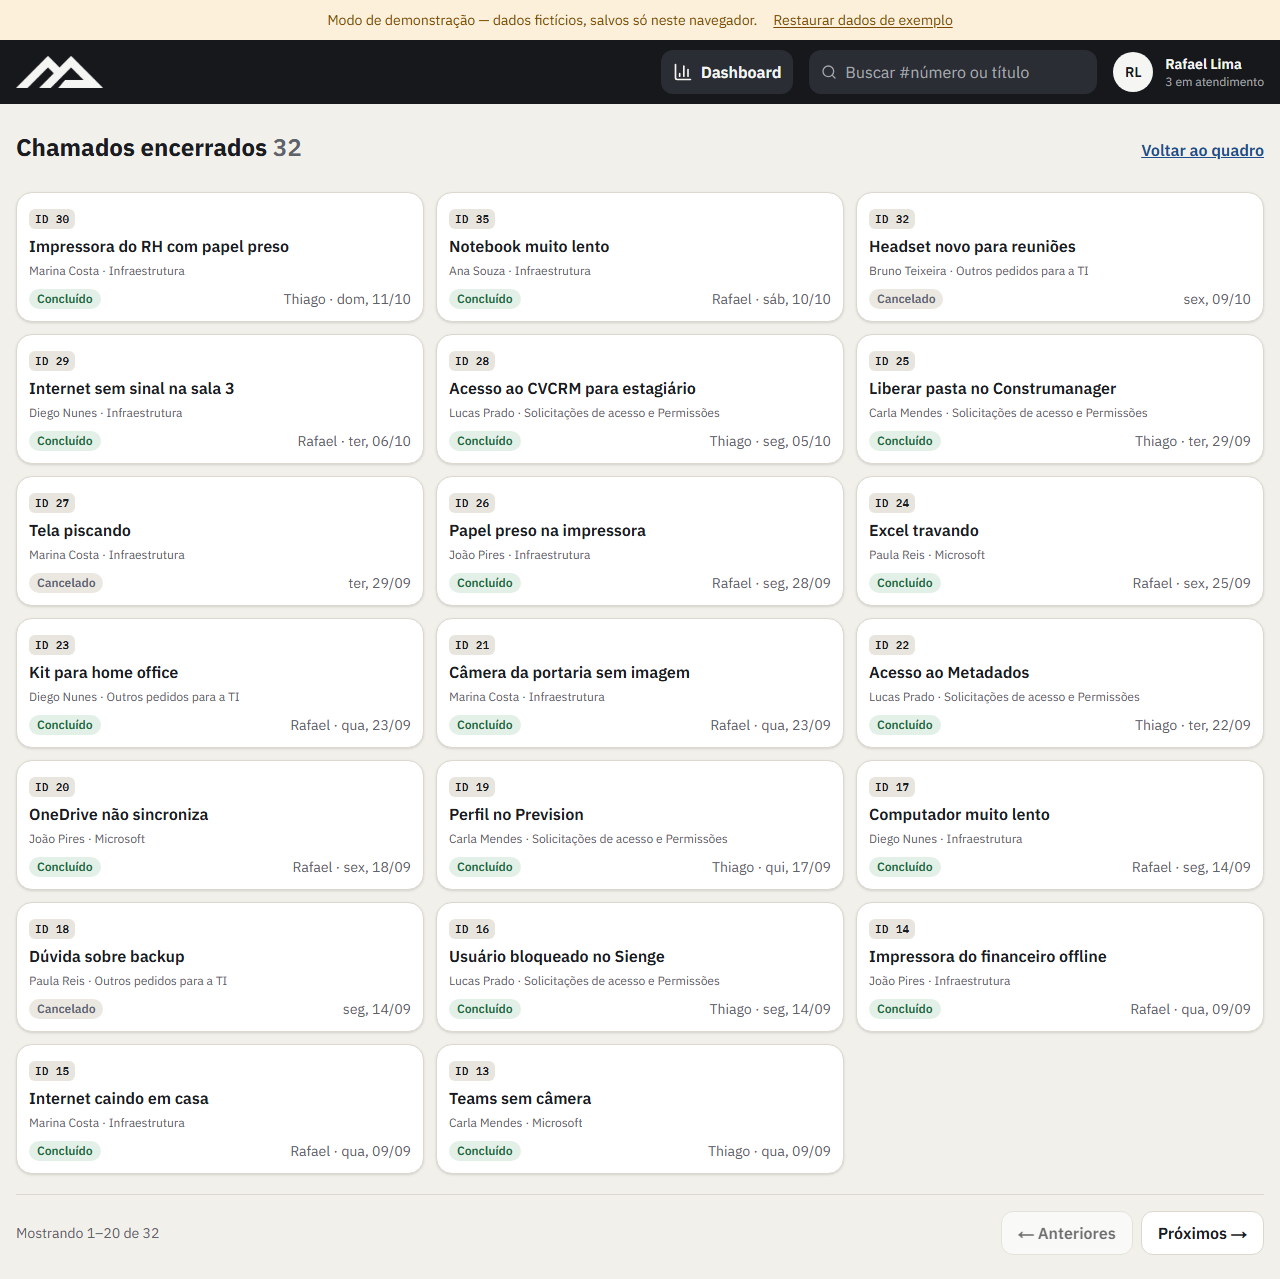
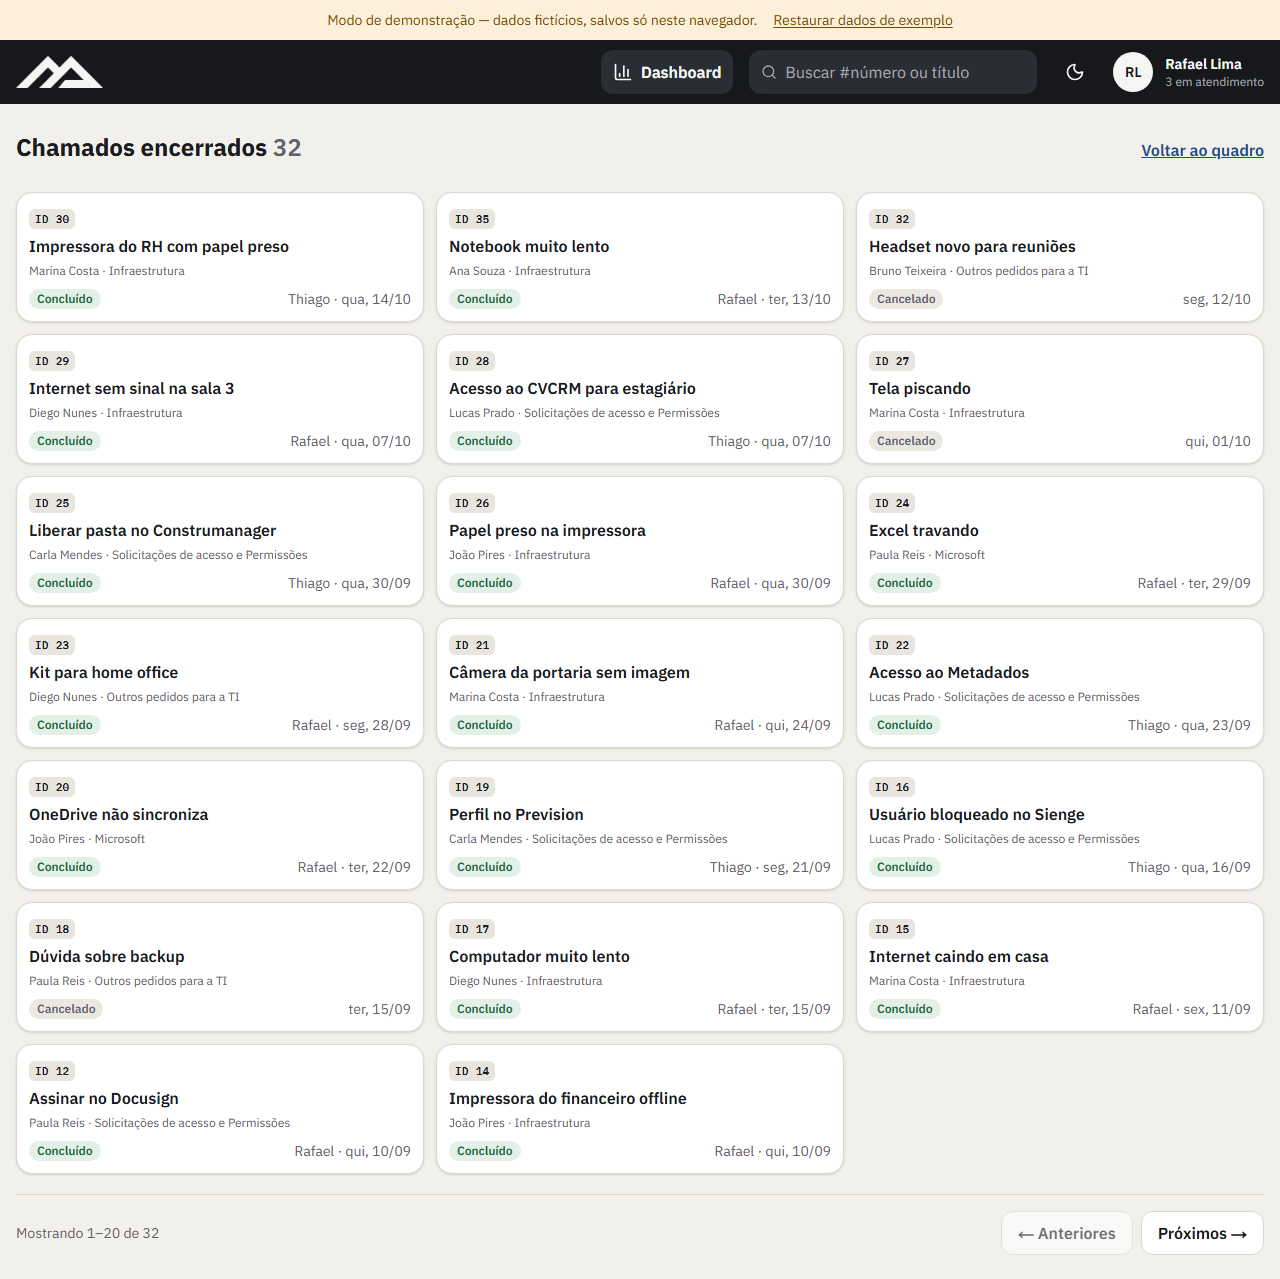
feat(chat): ✓ enviada e ✓✓ vista nas mensagens da TI
- migration 0026: a TI lê até quando o solicitante leu (chamado_leituras)
  e a tabela entra no Realtime; pgTAP 013
- contrato lidoPeloSolicitanteAte nas duas fontes; integração da camada real
- só a TI vê; o solicitante não vê se a TI leu
- prints claros atualizados (botão ☀/🌙 e ✓✓)

diff --git a/apps/web/components/chamado/Conversa.tsx b/apps/web/components/chamado/Conversa.tsx
@@ -5,6 +5,7 @@
 // anexos dentro do balão. Cores do mockup: as minhas em azul à direita, as dos outros em branco.
 // Notas internas não aparecem aqui: ficam no Relato técnico (components/tecnico/atendimento/RelatoTecnico).
 
+import { Check, CheckCheck } from "lucide-react";
 import type { Anexo } from "@/lib/dominio/tipos";
 import { AnexoMiniatura } from "./AnexoMiniatura";
 import type { ItemConversa } from "./linhaDoTempo";
@@ -39,6 +40,7 @@ export function Balao({
   inicioDeGrupo = true,
   anexos = [],
   esmaecido = false,
+  visto = null,
 }: {
   conteudo: string;
   minha: boolean;
@@ -50,6 +52,8 @@ export function Balao({
   inicioDeGrupo?: boolean;
   anexos?: Anexo[];
   esmaecido?: boolean;
+  /** ✓ enviada · ✓✓ vista pelo solicitante (só a TI vê). Nulo = sem marca. */
+  visto?: boolean | null;
 }) {
   const cor = sistema ? CORES.sistema : minha ? CORES.minha : CORES.outra;
   const lado = minha ? "self-end" : "self-start";
@@ -87,7 +91,20 @@ export function Balao({
         {conteudo ? (
           <p className="mr-auto min-w-0 break-words whitespace-pre-line">{conteudo}</p>
         ) : null}
-        <span className={`shrink-0 text-[11px] leading-5 ${cor.hora}`}>{hora}</span>
+        <span
+          className={`inline-flex shrink-0 items-center gap-1 text-[11px] leading-5 ${cor.hora}`}
+        >
+          {hora}
+          {visto === null ? null : visto ? (
+            <CheckCheck role="img" aria-label="Vista" className="size-4 text-sis-azul-claro">
+              <title>Vista pelo solicitante</title>
+            </CheckCheck>
+          ) : (
+            <Check role="img" aria-label="Enviada" className="size-4">
+              <title>Enviada (ainda não vista)</title>
+            </Check>
+          )}
+        </span>
       </div>
     </div>
   );
@@ -134,6 +151,7 @@ export function Conversa({ itens }: { itens: ItemConversa[] }) {
               hora={item.hora}
               inicioDeGrupo={item.inicioDeGrupo}
               anexos={item.anexos}
+              visto={item.visto}
             />
           </li>
         );

diff --git a/apps/web/components/chamado/linhaDoTempo.ts b/apps/web/components/chamado/linhaDoTempo.ts
@@ -34,6 +34,8 @@ export type ItemConversa =
       inicioDeGrupo: boolean;
       anexos: Anexo[];
       criadoEm: string;
+      /** Só para a TI, nas mensagens dela: o solicitante já leu (✓✓) ou ainda não (✓). Nulo = não mostra. */
+      visto: boolean | null;
     };
 
 interface Entrada {
@@ -44,6 +46,8 @@ interface Entrada {
   perfis: PerfilPublico[];
   euId: string;
   papel: Papel;
+  /** Até quando o solicitante leu (lidoPeloSolicitanteAte). Só a TI recebe; ativa o ✓/✓✓. */
+  lidoPeloSolicitanteAte?: string | null;
   agora?: Date;
 }
 
@@ -130,8 +134,14 @@ export function montarConversa({
   perfis,
   euId,
   papel,
+  lidoPeloSolicitanteAte = null,
   agora = new Date(),
 }: Entrada): ItemConversa[] {
+  // ✓/✓✓ só para a TI, nas mensagens que ela mesma mandou (pedido do dono, 2026-10-16).
+  const visto = (minha: boolean, criadoEm: string): boolean | null =>
+    papel === "ti" && minha
+      ? lidoPeloSolicitanteAte !== null && new Date(lidoPeloSolicitanteAte) >= new Date(criadoEm)
+      : null;
   const perfil = new Map(perfis.map((p) => [p.id, p]));
   const nome = (id: string | null | undefined) => (id ? (perfil.get(id)?.nome ?? null) : null);
 
@@ -157,6 +167,7 @@ export function montarConversa({
       inicioDeGrupo: true,
       anexos: anexos.filter((a) => a.mensagemId === null),
       criadoEm: chamado.criadoEm,
+      visto: visto(chamado.solicitanteId === euId, chamado.criadoEm),
     },
     ...mensagens
       .filter((m) => !m.interna)
@@ -172,6 +183,7 @@ export function montarConversa({
         inicioDeGrupo: true,
         anexos: anexos.filter((a) => a.mensagemId === m.id),
         criadoEm: m.criadoEm,
+        visto: visto(m.autorId === euId, m.criadoEm),
       })),
     ...historico.flatMap((h) => {
       const texto = textoEvento(h, nome, euId, papel);

diff --git a/apps/web/components/chamado/linhaDoTempo.test.ts b/apps/web/components/chamado/linhaDoTempo.test.ts
@@ -330,3 +330,24 @@ describe("prazo definido pela TI (ADR 0009)", () => {
     );
   });
 });
+
+describe("visto (✓/✓✓) — só a TI, nas mensagens dela", () => {
+  const base = { chamado, mensagens, historico, anexos: [], perfis, agora };
+  const daTi = (lido: string | null) =>
+    montarConversa({ ...base, euId: RAFAEL, papel: "ti", lidoPeloSolicitanteAte: lido }).find(
+      (i) => i.chave === "m1",
+    );
+
+  it("✓ enquanto o solicitante não leu; ✓✓ depois que leu", () => {
+    expect(daTi(null)).toMatchObject({ visto: false });
+    expect(daTi("2026-10-05T12:51:00Z")).toMatchObject({ visto: false });
+    expect(daTi("2026-10-05T12:52:00Z")).toMatchObject({ visto: true });
+  });
+
+  it("não marca as mensagens do solicitante nem aparece para o solicitante", () => {
+    const ti = montarConversa({ ...base, euId: RAFAEL, papel: "ti", lidoPeloSolicitanteAte: null });
+    expect(ti.find((i) => i.chave === "pedido")).toMatchObject({ visto: null });
+    const ana = montarConversa({ ...base, euId: ANA, papel: "solicitante" });
+    expect(ana.filter((i) => i.tipo === "mensagem").every((i) => i.visto === null)).toBe(true);
+  });
+});

diff --git a/apps/web/lib/dados/real/index.ts b/apps/web/lib/dados/real/index.ts
@@ -47,7 +47,7 @@ import {
 } from "./mapear";
 
 const ENCERRADOS = "(concluido,cancelado)";
-const TABELAS_AO_VIVO = ["chamados", "mensagens", "historico"] as const;
+const TABELAS_AO_VIVO = ["chamados", "mensagens", "historico", "chamado_leituras"] as const;
 
 /** Erro de leitura do Supabase → catálogo (42501 = sem permissão pelo RLS/grant). Nunca a mensagem crua. */
 function erroDeLeitura(erro: PostgrestError): ErroApp {
@@ -480,6 +480,19 @@ export function criarFonteReal(
 
     async marcarComoLido(chamadoId) {
       await api<void>(`/chamados/${chamadoId}/lido`, { metodo: "POST" });
+    },
+
+    async lidoPeloSolicitanteAte(chamadoId, solicitanteId) {
+      if (usuario.papel !== "ti") return null;
+      const linha = ler(
+        await supabase
+          .from("chamado_leituras")
+          .select("lido_ate")
+          .eq("chamado_id", chamadoId)
+          .eq("profile_id", solicitanteId)
+          .maybeSingle<{ lido_ate: string }>(),
+      );
+      return linha?.lido_ate ?? null;
     },
 
     async listarNaoLidos() {

diff --git a/apps/web/lib/dados/real/integracao.test.ts b/apps/web/lib/dados/real/integracao.test.ts
@@ -104,6 +104,10 @@ describe.runIf(ligado)("camada real contra o Supabase local e a API", () => {
     expect(conversaAna.map((m) => m.conteudo)).not.toContain("Nota só da TI");
     await ana.fonte.marcarComoLido(id);
     expect(await ana.fonte.listarNaoLidos()).not.toContain(id);
+    // "Visto" (migration 0026): a TI vê até quando a Ana leu; a Ana não vê a leitura da TI.
+    const anaId = (await ana.fonte.obterMeuPerfil()).id;
+    expect(await rafael.fonte.lidoPeloSolicitanteAte(id, anaId)).not.toBeNull();
+    expect(await ana.fonte.lidoPeloSolicitanteAte(id, anaId)).toBeNull();
     const anexos = await ana.fonte.listarAnexos(id);
     expect(anexos).toHaveLength(1);
     expect(anexos[0]).toMatchObject({ nome: "print-20261015-090000.png", origem: "colado" });

diff --git a/apps/web/lib/dados/tipos.ts b/apps/web/lib/dados/tipos.ts
@@ -196,6 +196,11 @@ export interface FonteDeDados {
   enviarMensagem(dados: NovaMensagem): Promise<Mensagem>;
   /** Marca a conversa como lida por mim (tabela chamado_leituras). */
   marcarComoLido(chamadoId: number): Promise<void>;
+  /**
+   * Até quando o SOLICITANTE leu a conversa ("visto" ✓✓ nos balões da TI — migration 0026). Só TI;
+   * para o solicitante, ou se ele nunca abriu, devolve null.
+   */
+  lidoPeloSolicitanteAte(chamadoId: number, solicitanteId: string): Promise<string | null>;
   /** Números dos meus chamados com mensagem da TI ainda não lida ("• Nova mensagem"). */
   listarNaoLidos(): Promise<number[]>;
   /** Quantas mensagens não lidas cada chamado tem (contador 💬 dos cartões da TI). */

diff --git a/apps/web/components/chamado/ChatChamado.tsx b/apps/web/components/chamado/ChatChamado.tsx
@@ -66,7 +66,11 @@ export function ChatChamado({
         // Respostas prontas: só a TI (o solicitante nem consulta).
         ti ? f.listarRespostasProntas() : Promise.resolve([]),
       ]);
-      return { chamado, mensagens, historico, anexos, perfis, prontas };
+      // "Visto" (✓✓): só a TI consulta até quando o solicitante leu.
+      const lidoPeloSolicitanteAte = ti
+        ? await f.lidoPeloSolicitanteAte(chamadoId, chamado.solicitanteId)
+        : null;
+      return { chamado, mensagens, historico, anexos, perfis, prontas, lidoPeloSolicitanteAte };
     },
     [chamadoId, ti],
   );

diff --git a/apps/web/lib/dados/simulada/index.ts b/apps/web/lib/dados/simulada/index.ts
@@ -709,6 +709,14 @@ export function criarFonteSimulada(usuarioId: string): FonteDeDados {
       });
     },
 
+    async lidoPeloSolicitanteAte(chamadoId: number, solicitanteId: string) {
+      if (eu().papel !== "ti") return null;
+      return (
+        lerEstado().leituras.find((l) => l.chamadoId === chamadoId && l.profileId === solicitanteId)
+          ?.lidoAte ?? null
+      );
+    },
+
     async listarNaoLidos() {
       return Object.keys(contagemNaoLidas()).map(Number);
     },

diff --git a/docs/fases/STATUS.md b/docs/fases/STATUS.md
@@ -32,6 +32,7 @@ Mais recente primeiro. Uma linha por sessão que alterou o projeto.
 
 | Data | O que mudou |
 |---|---|
+| 2026-10-16 | **"Visto" no chat** (pedido do dono): nas mensagens da TI, ✓ enviada e ✓✓ azul-claro quando o solicitante leu; só a TI vê. Migration 0026 (policy para a TI ler a leitura do solicitante + `chamado_leituras` no Realtime) + pgTAP 013; contrato `lidoPeloSolicitanteAte` nas duas fontes; integração da camada real cobre. Aplicar na nuvem: `npx supabase@latest db push`. |
 | 2026-10-16 | STATUS: linhas do registro que tinham ido para a tabela de etapas voltaram para cá; 1A-2 marcada como concluída. |
 | 2026-10-16 | **Tela escura** (botão ☀/🌙, pedido do dono): migration 0025 `profiles.tema` (claro/escuro, padrão claro) + pgTAP 012; API `PATCH /me/tema` e `tema` no perfil; site com tokens escuros em `globals.css` (`:root[data-tema="escuro"]`), cookie `cc_tema` lido no layout (sem piscar) e gravado na volta do login, `salvarTema` nas duas fontes; botão no portal, na barra da TI e no login. Prints `escuro-*`. Aplicar na nuvem: `npx supabase@latest db push`. |
 | 2026-10-15 | **Um projeto só na Vercel** (ADR 0017, decisão do dono): `vercel.json` na raiz com Services — site em `/`, API em `/api` (middleware `app/prefixo.py`), binding `API_INTERNA_URL` para o servidor do site; `NEXT_PUBLIC_API_URL=/api`. Teste `segredos-fora-do-site` impede o site de citar segredos da API. Testes da API não leem mais o `.env` local. Projeto e branch `demo` excluídos. `CLAUDE.md` e `go-live.md` §7–8 atualizados. |

diff --git a/docs/ui-ux.md b/docs/ui-ux.md
@@ -29,6 +29,12 @@ Vale para as telas 5, 7 e 9 (substitui o "nome · hora embaixo do balão" do moc
 - Notas internas **não aparecem no chat**: ficam na aba **Relato técnico** da tela de atendimento (2026-10-06).
 - Cores do mockup mantidas: minhas em azul à direita, dos outros em branco à esquerda; eventos do sistema em pílula.
 
+## "Visto" no chat (pedido do dono, 2026-10-16)
+- **Só a TI vê**, nas mensagens que ela mesma mandou: **✓** = enviada, **✓✓ azul-claro** = o solicitante já leu
+  (passar o mouse: "Vista pelo solicitante"). O solicitante não vê se a TI leu.
+- Vem de `chamado_leituras` (até quando o solicitante leu — a mesma tabela do "• Nova mensagem"); a TI pode ler a
+  linha do solicitante (migration 0026) e ela chega pelo Realtime.
+
 ## Fundamentos
 
 ### Cores (tokens em `apps/web/app/globals.css`)
